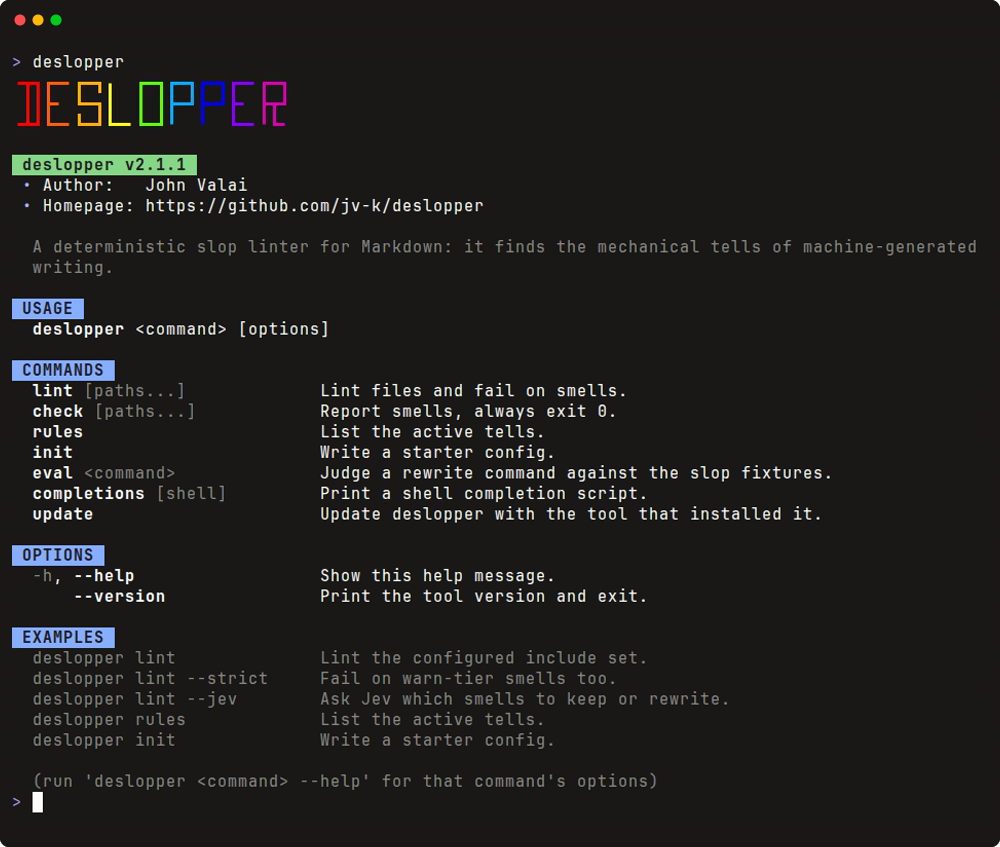
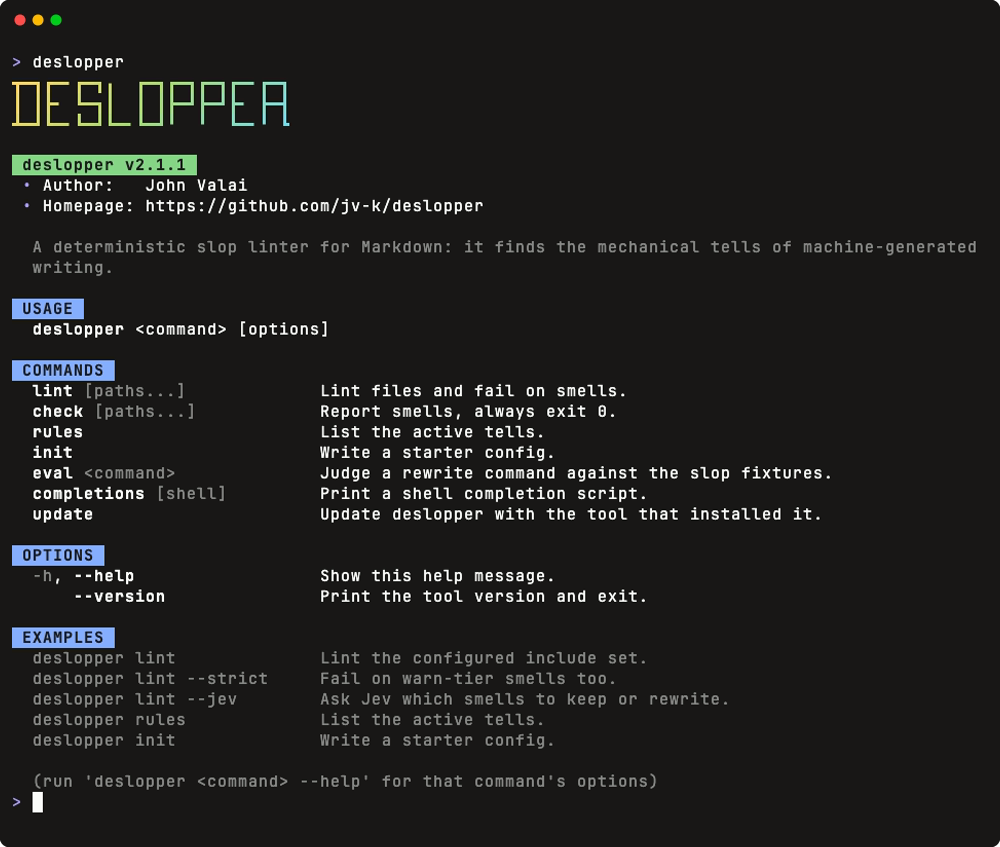
docs(img): add the wordmark pictures and render the visuals again
scripts/wordmark.py draws the README's wordmark as an SVG from the
CLI's own rows, and scripts/screenshots.sh turns it into
img/wordmark-dark.png and img/wordmark-light.png with rsvg-convert. The
light picture uses darker stops, so it reads on a white page. In the
picture the R's leg sits one stroke inside the bowl's right side; a
terminal moves a stroke only by whole cells, so the CLI cannot.

The README opens with the wordmark, picked by the reader's theme. The
Screenshots workflow installs librsvg and commits the two pictures with
the others. Both tapes set COLORTERM=truecolor, so gum draws the exact
colours on any machine. The help screenshot and the demo are rendered
again with the new wordmark.

Claude-Session: https://claude.ai/code/session_01H9P8oM6puTakQSqynRvMdC

diff --git a/scripts/wordmark.py b/scripts/wordmark.py
@@ -1,0 +1,86 @@
+"""Draws the README's wordmark as an SVG on stdout: the CLI's rows from help.py, each
+box-drawing cell as thick strokes, under the CLI's diagonal gradient.
+scripts/screenshots.sh turns it into img/wordmark-dark.png and img/wordmark-light.png.
+Pass `light` for the darker stops that read on white.
+
+    python3 scripts/wordmark.py [dark | light] > wordmark.svg
+"""
+
+import sys
+
+from deslopper.help import WORDMARK
+from deslopper.ui import GRADIENT_SHIFT, GRADIENT_STOPS
+
+ROWS = ["".join(row) for row in WORDMARK]
+
+# The CLI's stops for a dark page, and darker ones for a light page.
+STOPS = {
+    "dark": ["#%02x%02x%02x" % stop for stop in GRADIENT_STOPS],
+    "light": ["#b88a00", "#4f8f1f", "#13849c"],
+}
+
+# Each glyph as the arms it draws from the cell's centre.
+ARMS = {
+    "┏": "rd", "┓": "ld", "┗": "ur", "┛": "ul", "━": "lr", "┃": "ud",
+    "┣": "udr", "┫": "udl", "┳": "lrd", "┻": "lru",
+    "╸": "l", "╺": "r", "╹": "u", "╻": "d",
+}
+
+W, H = 38.5, 63.5  # a cell's width and height
+STROKE = 14
+LEFT, TOP = 52, 55  # the first cell's centre
+HALF = STROKE / 2
+
+# The R's leg, from its middle bar down to its foot, sits one stroke left of the
+# bowl's right side. A terminal moves a stroke only by whole cells, so only the
+# picture has this nudge.
+LEG_NUDGE = -STROKE
+
+
+def nudge(x, y, arm):
+    """How far to move the stroke for `arm` of the cell at column x, row y."""
+    leg = x == len(ROWS[0]) - 1 and ((y == 1 and arm == "d") or y == 2)
+    return LEG_NUDGE if leg and ROWS[1].endswith("┫") else 0
+
+
+def rects():
+    out = []
+    for y, row in enumerate(ROWS):
+        for x, cell in enumerate(row):
+            cx, cy = LEFT + x * W, TOP + y * H
+            for arm in ARMS.get(cell, ""):
+                r = {
+                    "l": (cx - W / 2, cy - HALF, W / 2 + HALF, STROKE),
+                    "r": (cx - HALF, cy - HALF, W / 2 + HALF, STROKE),
+                    "u": (cx - HALF, cy - H / 2, STROKE, H / 2 + HALF),
+                    "d": (cx - HALF, cy - HALF, STROKE, H / 2 + HALF),
+                }[arm]
+                r = (r[0] + nudge(x, y, arm),) + r[1:]
+                out.append('<rect x="%g" y="%g" width="%g" height="%g"/>' % r)
+    return out
+
+
+def svg(stops):
+    # The gradient runs from the first cell's centre, across the direction in which a
+    # cell's place in it, (x + SHIFT * y) / span, grows.
+    span = len(ROWS[0]) - 1 + GRADIENT_SHIFT * (len(ROWS) - 1)
+    gx, gy = 1 / W, GRADIENT_SHIFT / H
+    s = span / (gx * gx + gy * gy)
+    width = round(2 * LEFT + (len(ROWS[0]) - 1) * W)
+    height = round(2 * TOP + (len(ROWS) - 1) * H)
+    stop_tags = "\n".join('<stop offset="%g" stop-color="%s"/>' % (i / (len(stops) - 1), c)
+                          for i, c in enumerate(stops))
+    return (
+        f'<svg xmlns="http://www.w3.org/2000/svg" width="{width}" height="{height}" '
+        f'viewBox="0 0 {width} {height}">\n'
+        f'<defs><linearGradient id="g" gradientUnits="userSpaceOnUse" x1="{LEFT}" '
+        f'y1="{TOP}" x2="{LEFT + s * gx:g}" y2="{TOP + s * gy:g}">\n{stop_tags}\n'
+        "</linearGradient></defs>\n"
+        '<g fill="url(#g)" shape-rendering="crispEdges">\n'
+        + "\n".join(rects())
+        + "\n</g>\n</svg>\n"
+    )
+
+
+if __name__ == "__main__":
+    sys.stdout.write(svg(STOPS["light" if sys.argv[1:] == ["light"] else "dark"]))

diff --git a/README.md b/README.md
@@ -1,4 +1,9 @@
-# deslopper
+<h1 align="center">
+  <picture>
+    <source media="(prefers-color-scheme: dark)" srcset="https://raw.githubusercontent.com/jv-k/deslopper/main/img/wordmark-dark.png">
+    <img src="https://raw.githubusercontent.com/jv-k/deslopper/main/img/wordmark-light.png" alt="deslopper" width="270">
+  </picture>
+</h1>
 
 <div align="center">
   <img src="https://raw.githubusercontent.com/jv-k/deslopper/main/img/deslopper-demo.gif" alt="Animated demo: deslopper lint shows an em-dash error and four warnings, each tell with its fix and a caret under the caught words. A lint --jev run then rates each place with a bar, a probability and a rewrite verdict, and after a rewrite the file lints clean.">
@@ -466,7 +471,7 @@ A file path lints that file as given, even when the config excludes it. For the 
 see [Output formats](docs/output.md).
 
 <div align="center">
-  <img src="https://raw.githubusercontent.com/jv-k/deslopper/main/img/screenshot.png" alt="A bare deslopper run: the rainbow wordmark logo, the version pill, and the USAGE, COMMANDS, OPTIONS, and EXAMPLES sections of the help.">
+  <img src="https://raw.githubusercontent.com/jv-k/deslopper/main/img/screenshot.png" alt="A bare deslopper run: the wordmark in a yellow, green and cyan gradient, the version pill, and the USAGE, COMMANDS, OPTIONS, and EXAMPLES sections of the help.">
 </div>
 
 ## Contributing
